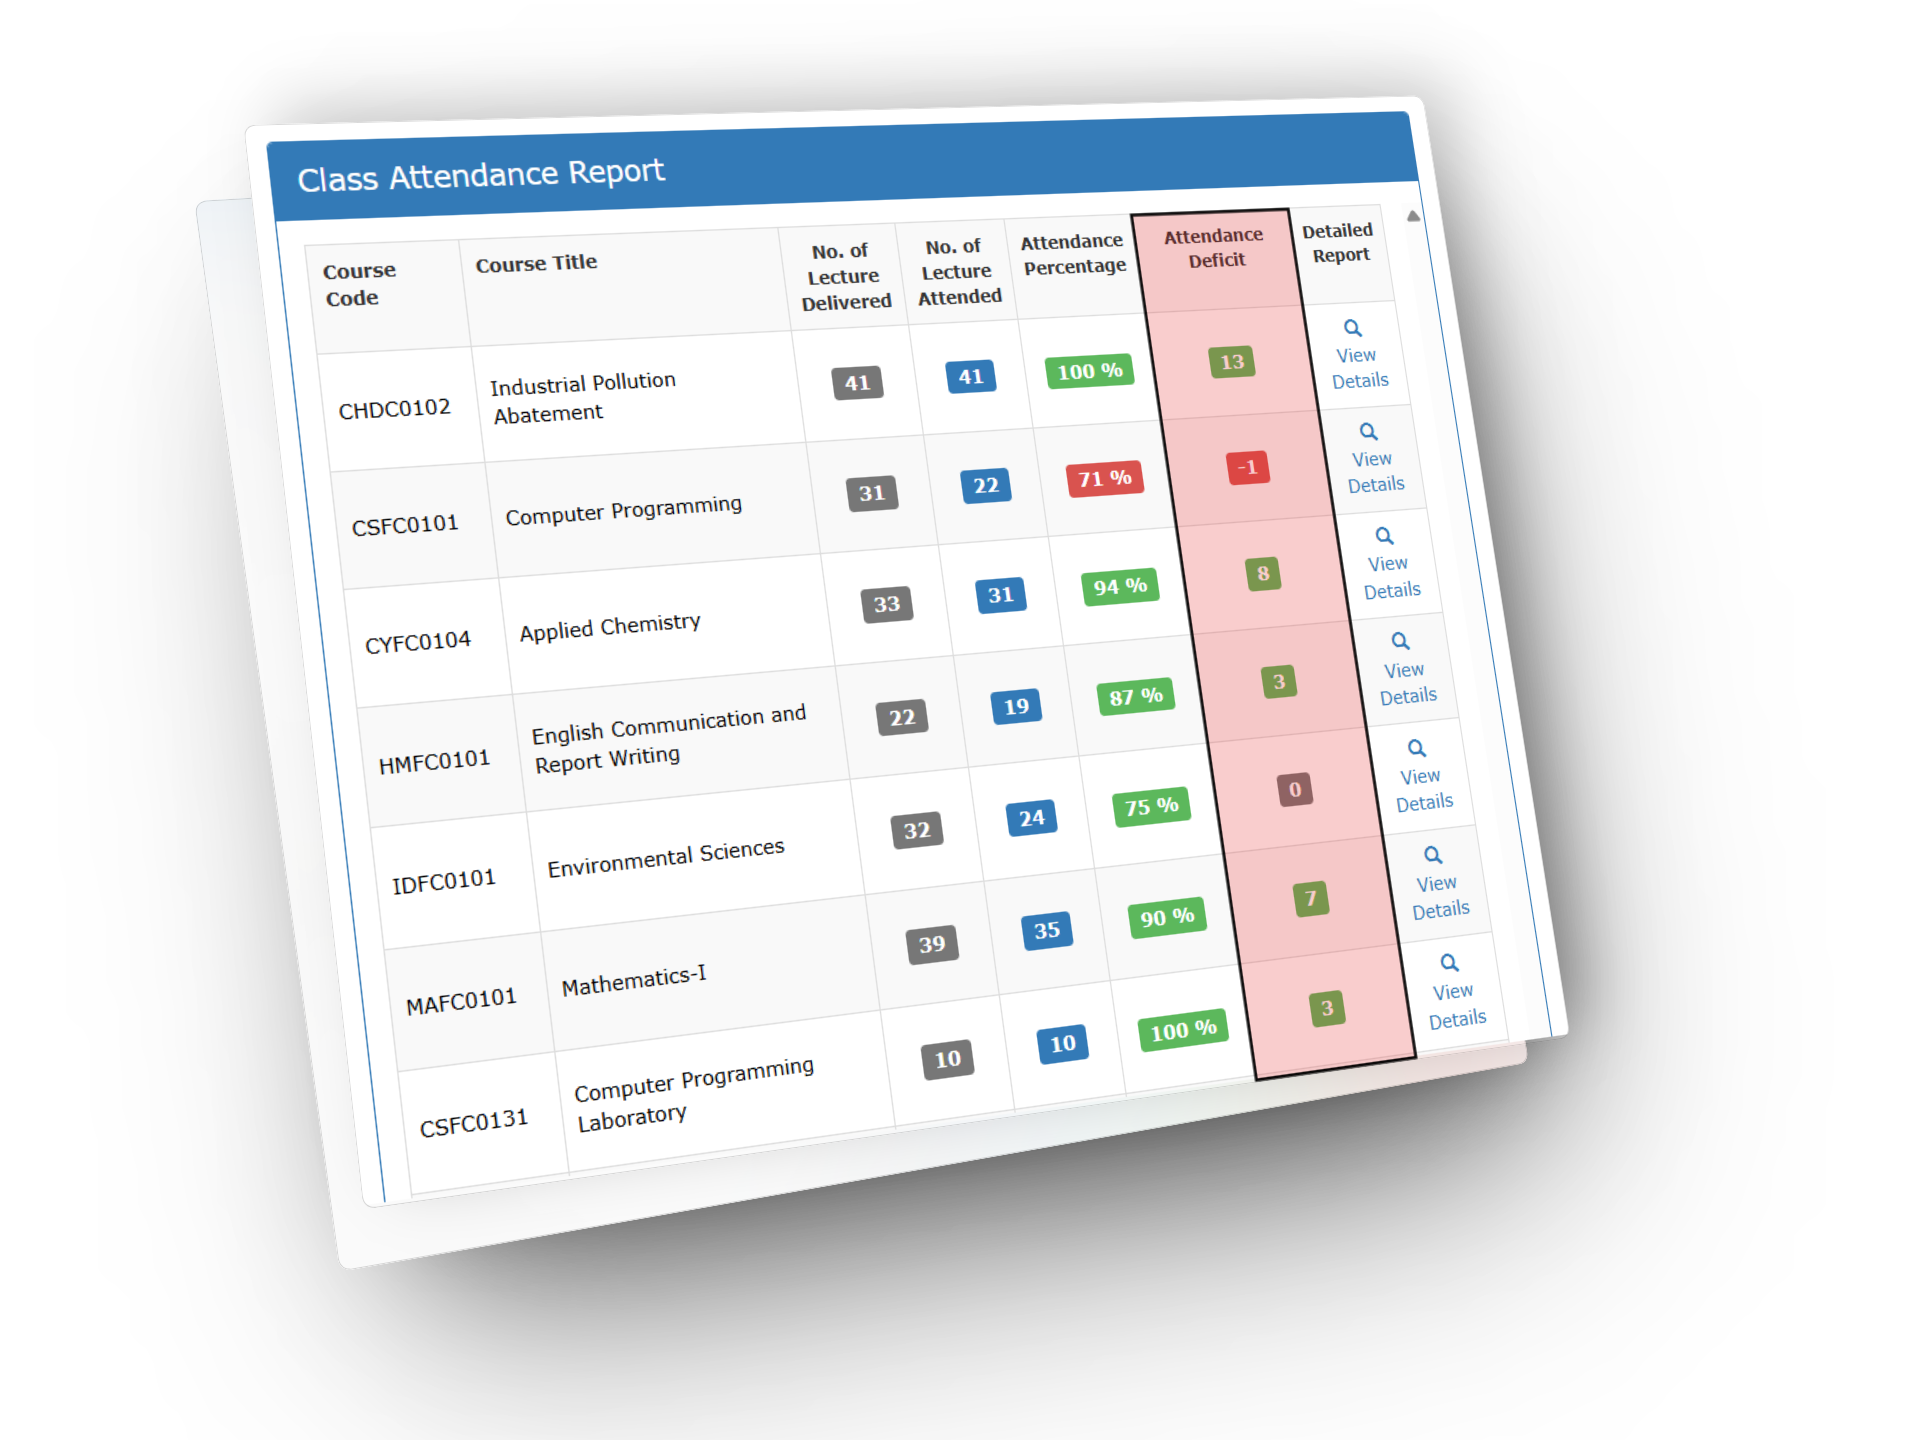
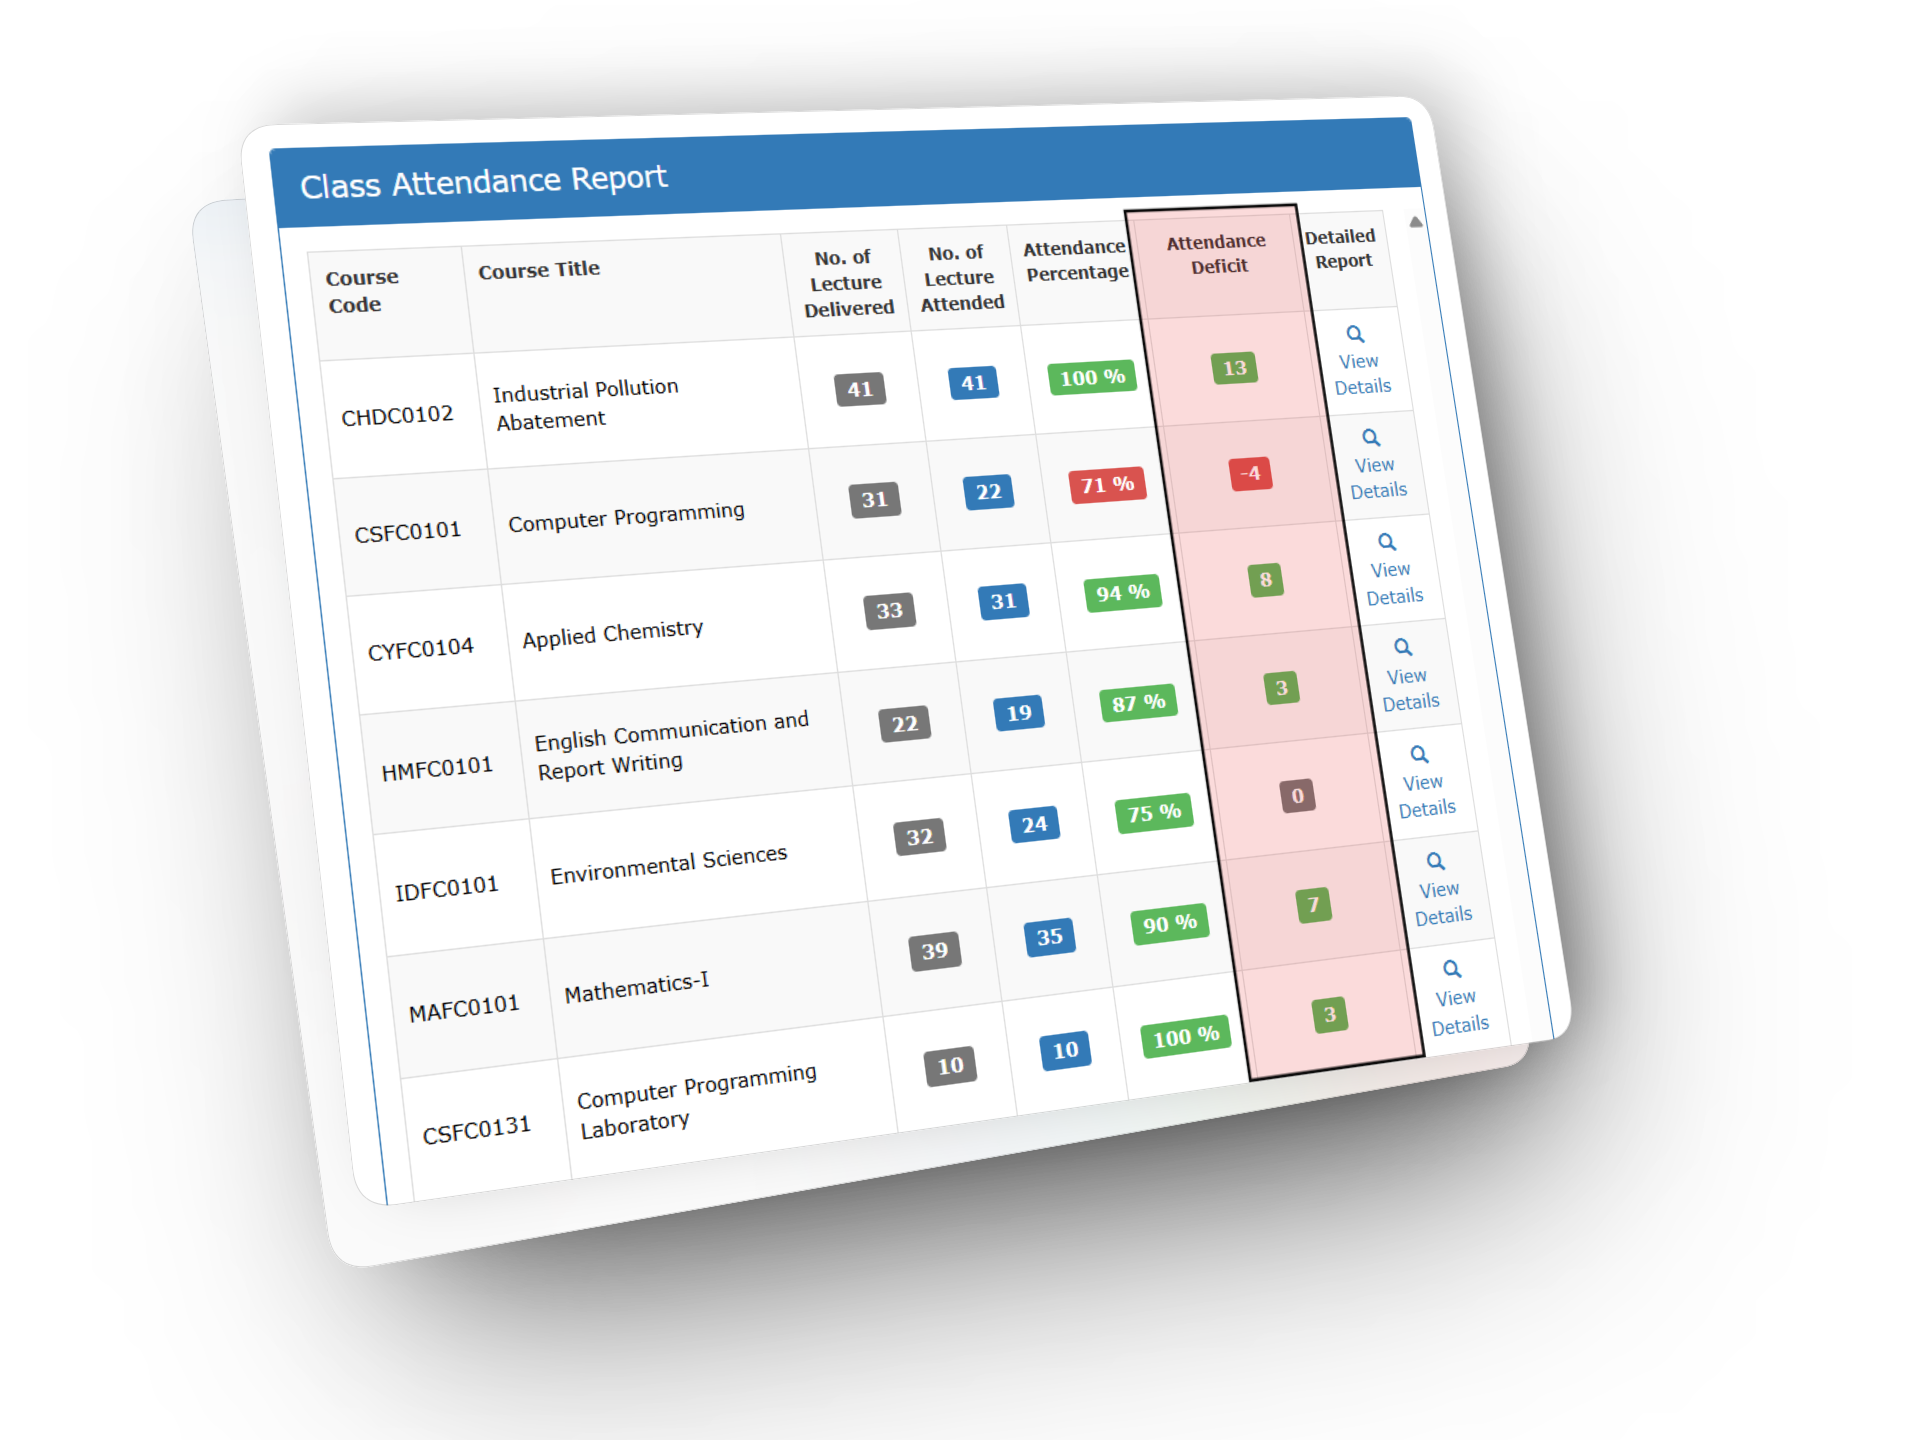
feat: update package.json scripts and refine readme content

diff --git a/readme.md b/readme.md
@@ -39,8 +39,7 @@
 |     | Feature                           | Description                                                                |
 | --- | --------------------------------- | -------------------------------------------------------------------------- |
 | 📊  | **Attendance Deficit Calculator** | Instantly see how many classes you need to attend (or can skip) to hit 75% |
-| 🌑  | **Dark Mode Enhancements**        | Refined dark-mode styles across all ERP pages                              |
-| ⚡  | **Lightweight & Fast**            | Zero heavy dependencies — loads in milliseconds                            |
+| ⚡  | **Lightweight & Fast**            | Zero heavy dependencies - loads in milliseconds                            |
 | 🦊  | **Cross-Browser**                 | Works on Chrome, Brave, Opera, and Firefox                                 |
 
 <br />
@@ -133,7 +132,7 @@ This is an **unofficial** utility extension. It is not affiliated with, endorsed
 
 ## Contributing
 
-Found a bug or want to add a feature? Open an issue or submit a pull request — contributions are welcome.
+Found a bug or want to add a feature? Open an issue or submit a pull request! Contributions are welcome :\)
 
 1. Fork the repository
 2. Create a feature branch: `git checkout -b feat/your-feature`